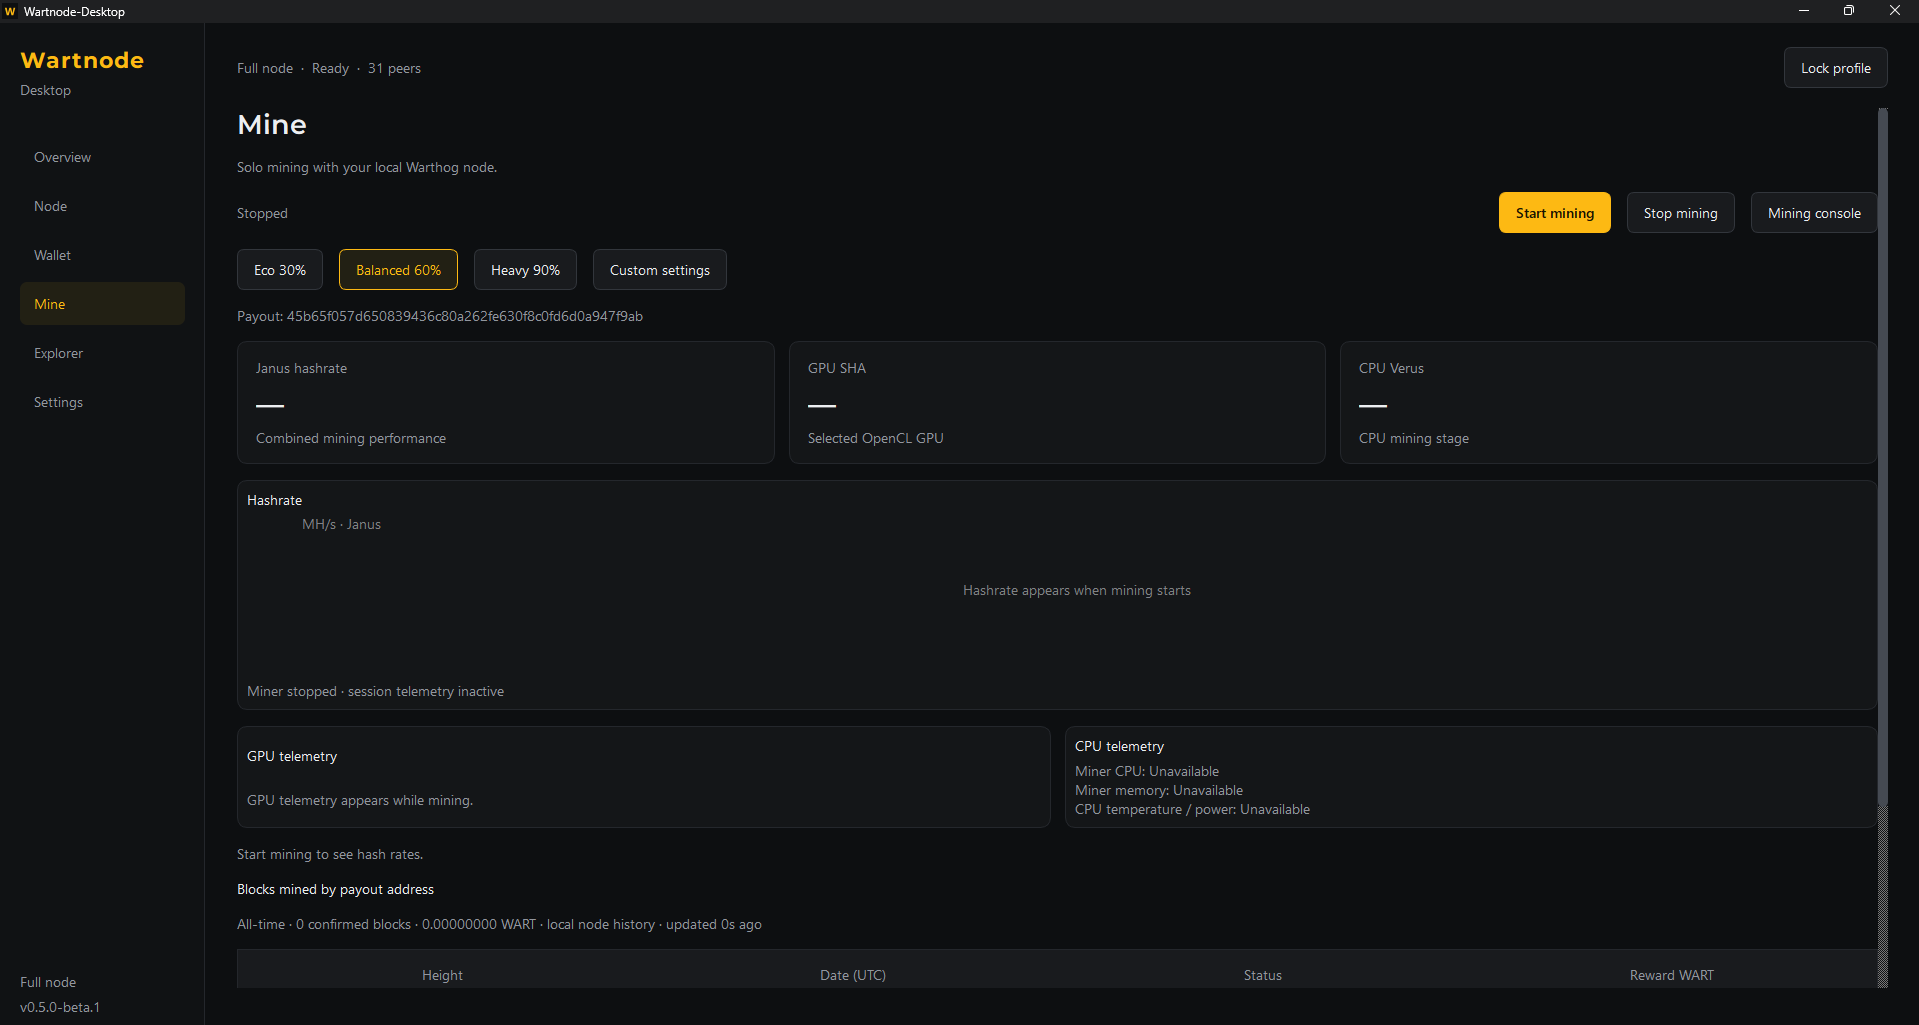
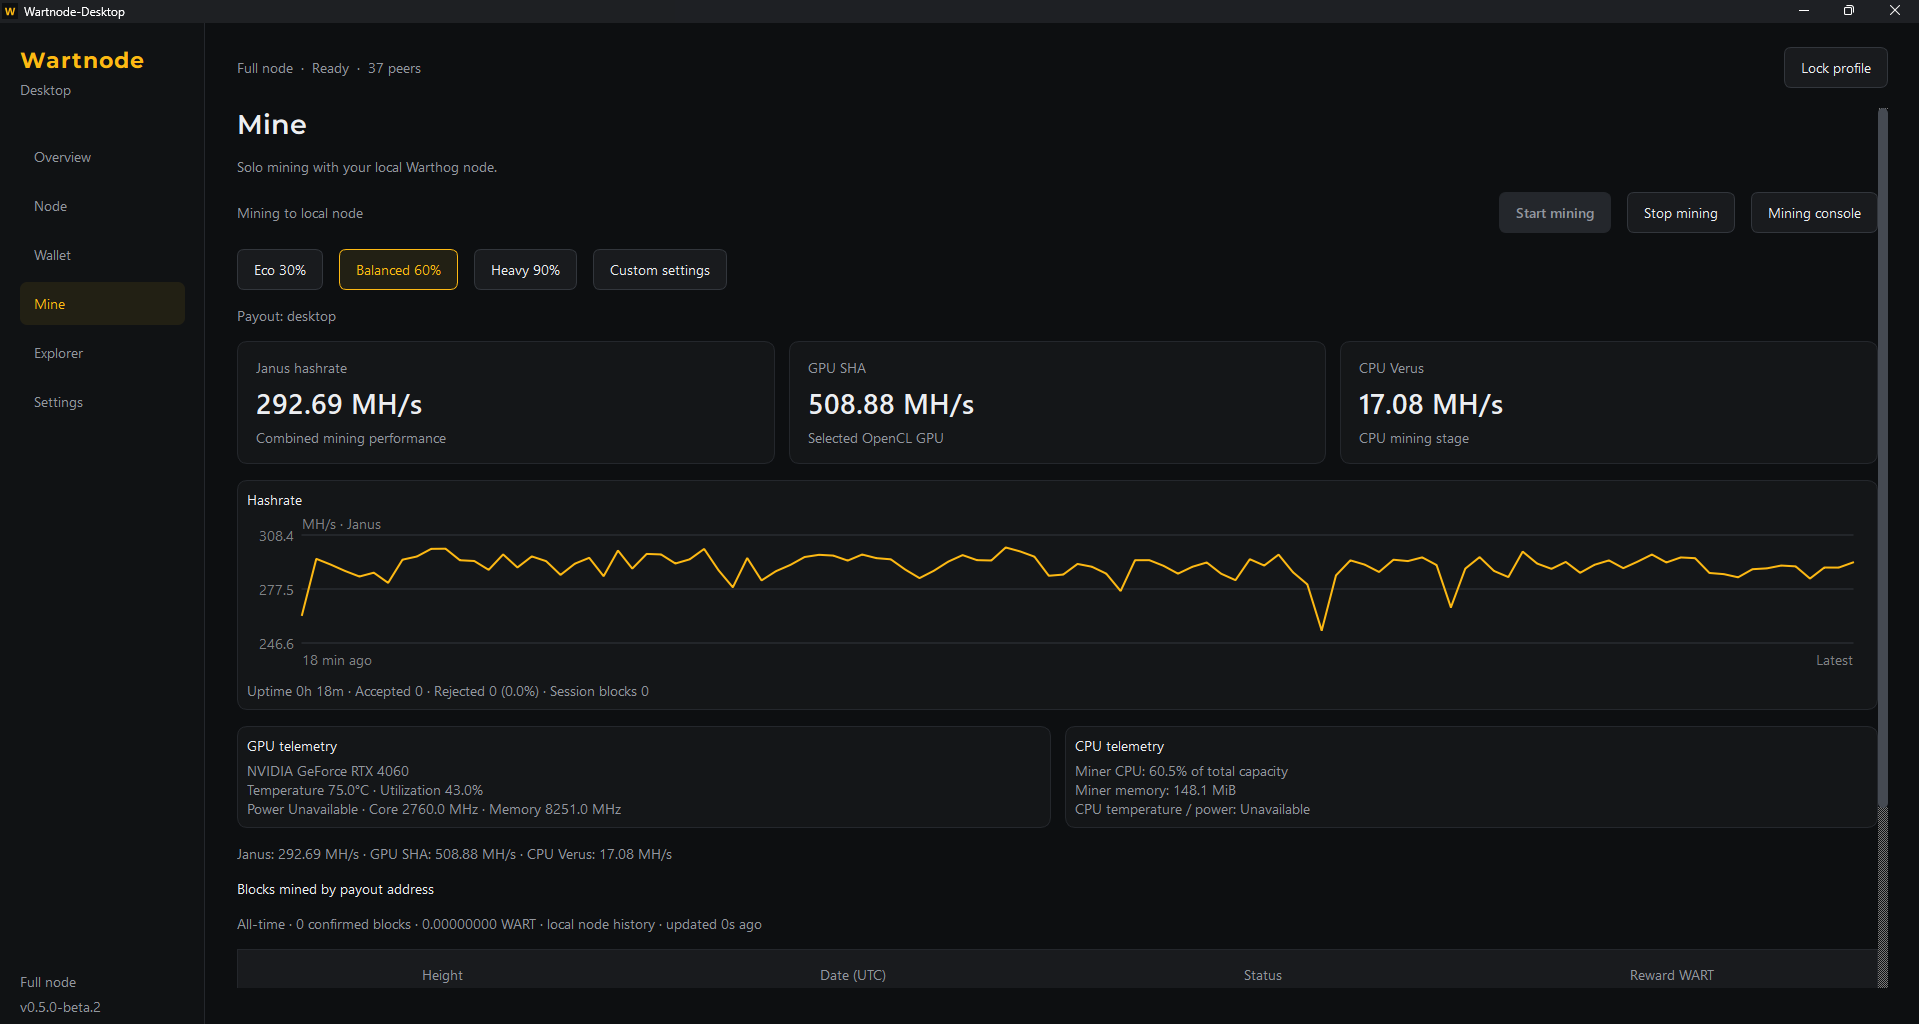
Show active mining in the screenshot tour [skip ci]
Replace the Mine capture with the supplied beta.2 running session and update
the version note, description and image text to match.

diff --git a/docs/SCREENSHOTS.md b/docs/SCREENSHOTS.md
@@ -1,8 +1,8 @@
 # Wartnode-Desktop screenshots
 
-A tour of the six main pages, captured from **v0.5.0-beta.1** on November 5,
-2026. Balances, block heights, network statistics and mining readings reflect
-the capture session.
+A tour of the six main pages, captured on November 5, 2026. The Mine screenshot
+shows **v0.5.0-beta.2**; the other screenshots show **v0.5.0-beta.1**. Balances,
+block heights, network statistics and mining readings reflect the capture sessions.
 
 [Overview](#overview) · [Node](#node) · [Wallet](#wallet) · [Mine](#mine) · [Explorer](#explorer) · [Settings](#settings)
 
@@ -39,10 +39,10 @@ Choose Eco 30%, Balanced 60%, Heavy 90% or Custom settings, with configuration
 and the mining console in separate windows. While mining, the page presents
 Janus, GPU SHA and CPU Verus hashrates, a performance chart, available GPU
 sensors, and miner CPU and memory readings. Reward history for the payout
-address appears below. This capture shows a stopped miner, so its performance
-and telemetry fields are inactive.
+address appears below. This capture shows an active mining session with live
+hashrates, session counters, a performance chart and supported telemetry.
 
-![Mine page showing Eco, Balanced, Heavy and Custom controls, inactive hashrate and telemetry panels, and payout-address reward history](screenshots/mine.png)
+![Mine page showing an active Balanced mining session, live Janus, GPU SHA and CPU Verus hashrates, a performance chart, telemetry and payout-address reward history](screenshots/mine.png)
 
 ## Explorer
 
